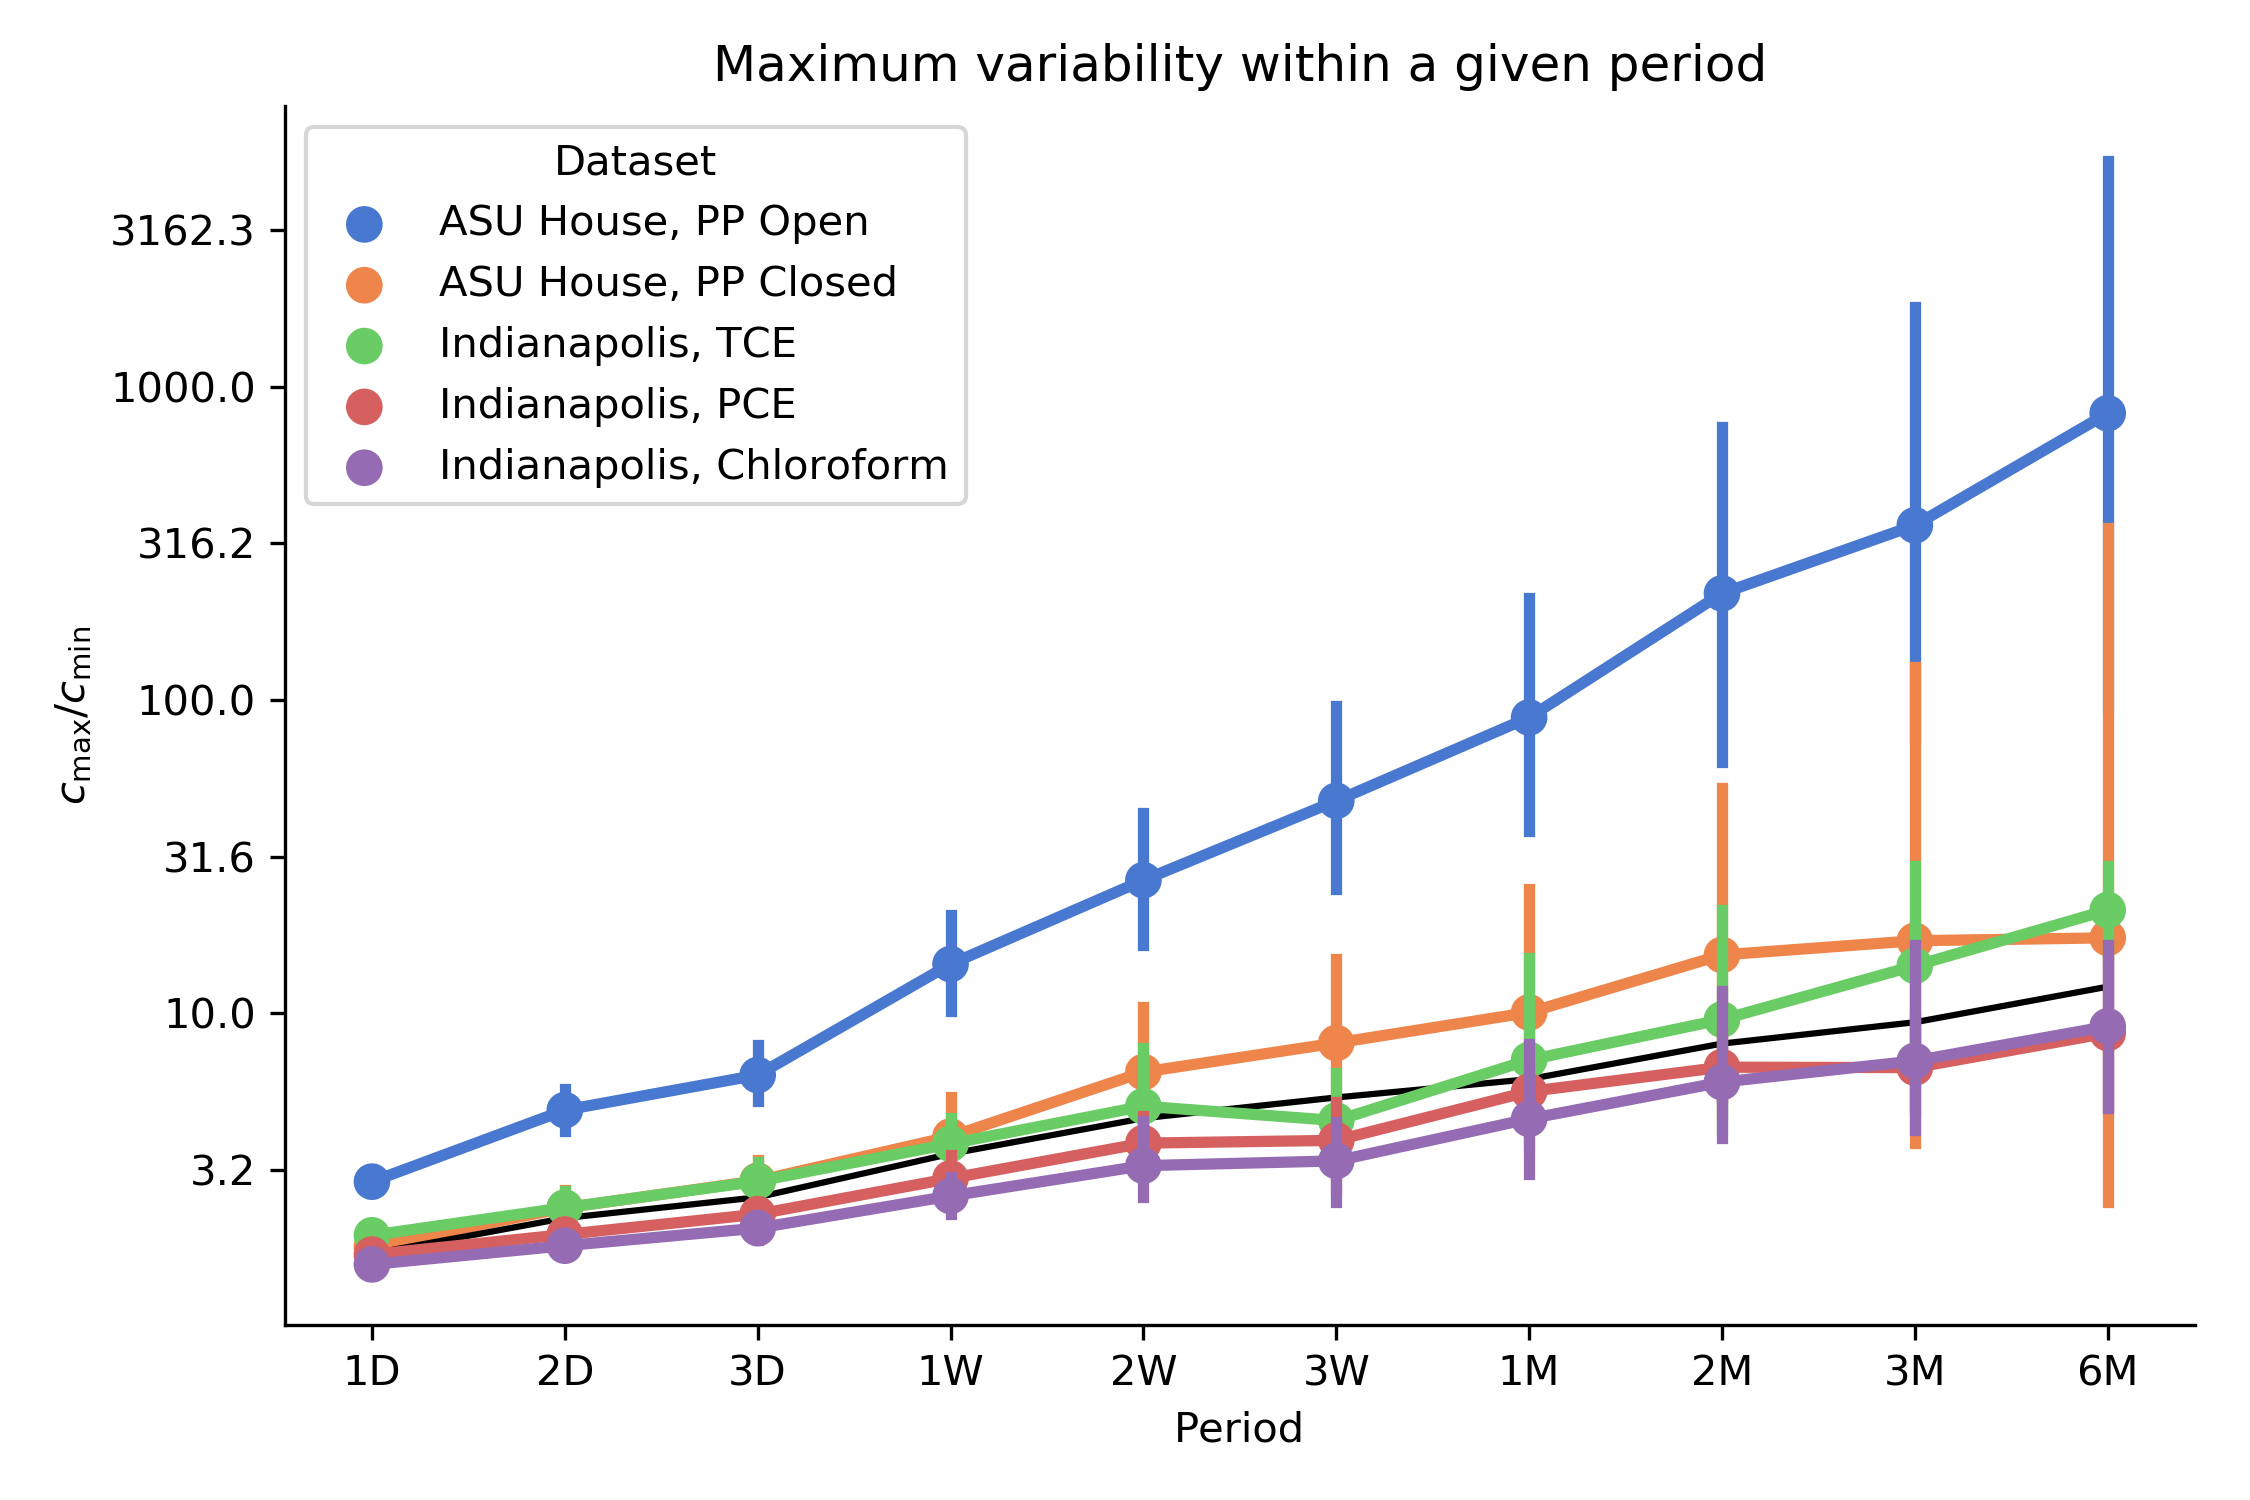
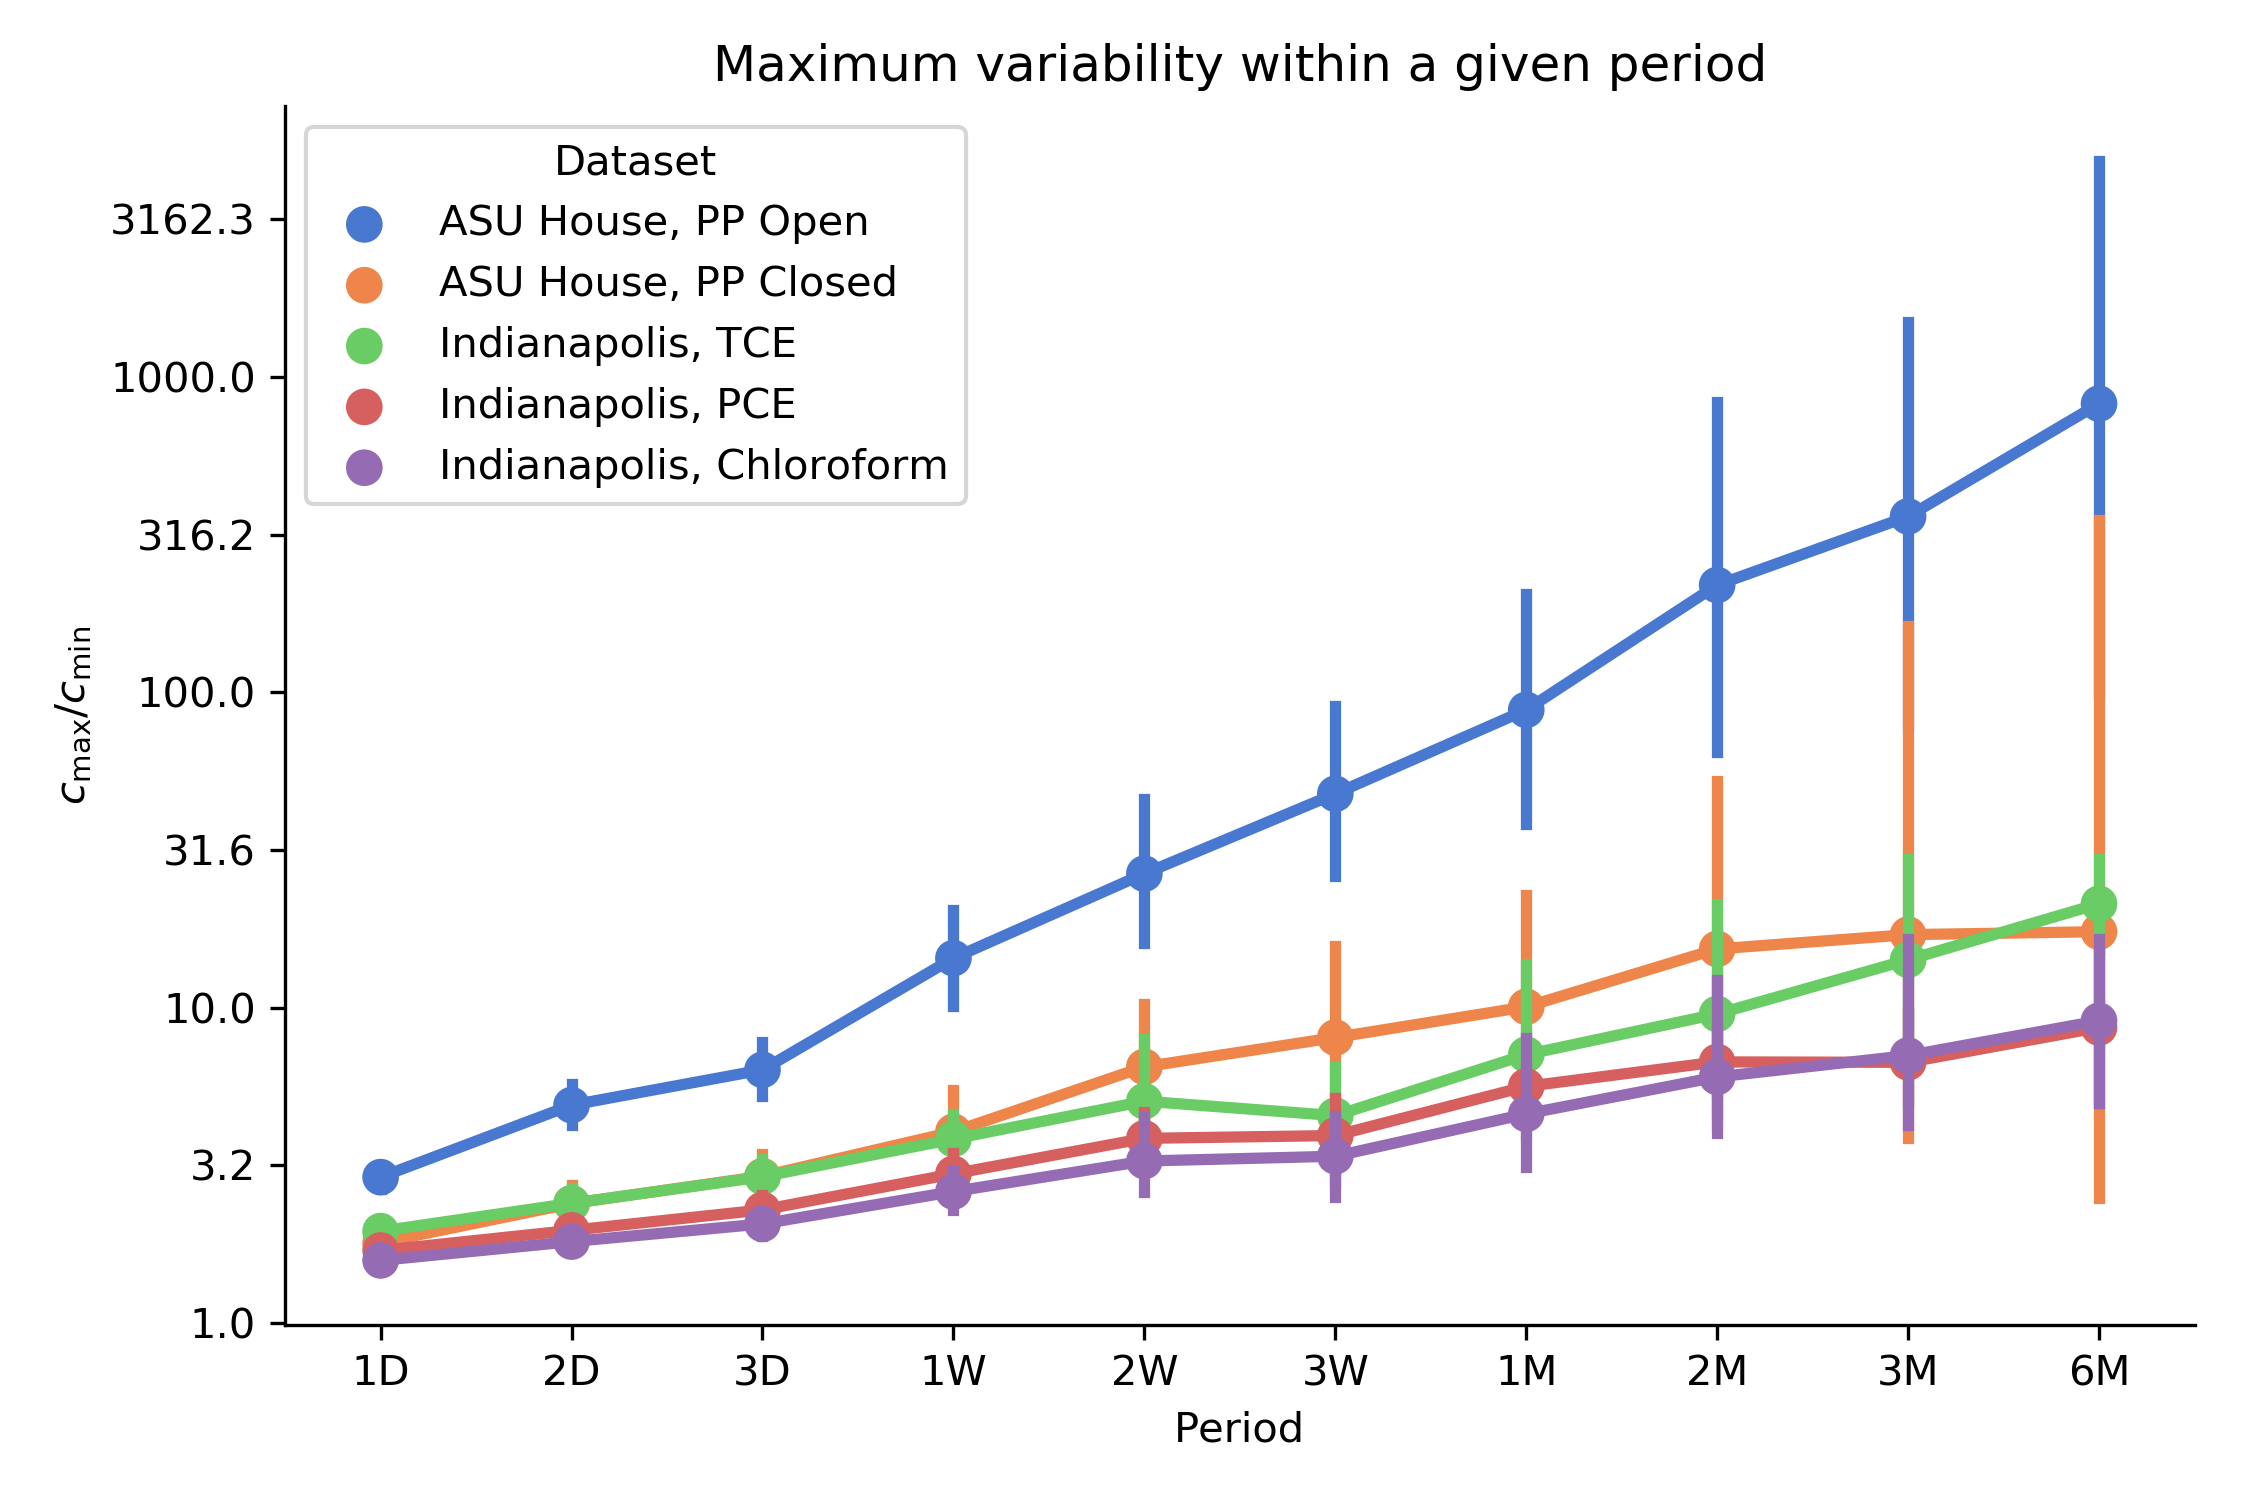
Removed curve fit from plot

diff --git a/code/resampling.py b/code/resampling.py
@@ -88,13 +88,6 @@ g = sns.catplot(
     aspect=1.5,
 )
 
-ax = g.axes[0][0]
-
-ax.plot(
-    fit_data['Resampling'],
-    func(fit_data['Days'], popt[0], popt[1]),
-    'k-'
-)
 
 my_ytick_labels = ["%1.1f" % y_tick for y_tick in 10.0**g.ax.get_yticks()]
 g.ax.set_yticklabels(my_ytick_labels)
